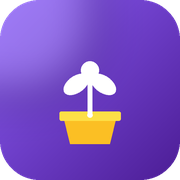
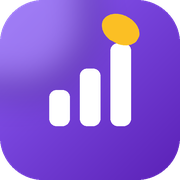
Add files via upload

diff --git a/index.html b/index.html
@@ -134,8 +134,11 @@
     transition:background-color .3s ease, border-color .3s ease;
   }
   .user-pill .dot{ width:26px; height:26px; border-radius:50%; background:linear-gradient(135deg,var(--primary),var(--gold)); display:flex; align-items:center; justify-content:center; font-size:12px; font-weight:700; color:#fff; }
-  .signout{ background:none; border:none; color:var(--text-muted); font-size:12.5px; }
-  .signout:hover{ color:var(--red); }
+  .foot-signout{
+    margin-top:12px; background:none; border:1px solid var(--card-border); color:var(--text-muted);
+    padding:8px 20px; border-radius:999px; font-size:12.5px; font-weight:600; transition:border-color .15s, color .15s;
+  }
+  .foot-signout:hover{ border-color:var(--red); color:var(--red); }
 
   .icon-btn{
     width:36px; height:36px; border-radius:50%; border:1px solid var(--card-border); background:var(--card);
@@ -358,9 +361,13 @@
   <header class="topbar">
     <div class="brand">
       <img src="logo-192.png" alt="Sprout" class="mark-img">
-      <div class="brand-text">Sprout<small>Personal Growth Tracker</small></div>
+      <div class="brand-text">Sprout</div>
     </div>
     <div class="topbar-right">
+      <div class="user-pill">
+        <span class="dot" id="userInitial">?</span>
+        <span id="userEmail">—</span>
+      </div>
       <div class="settings-wrap">
         <button class="icon-btn" id="settingsBtn" title="Appearance">⚙️</button>
         <div class="settings-panel hidden" id="settingsPanel">
@@ -371,11 +378,6 @@
           </div>
         </div>
       </div>
-      <div class="user-pill">
-        <span class="dot" id="userInitial">?</span>
-        <span id="userEmail">—</span>
-      </div>
-      <button class="signout" id="signOutBtn">Sign out</button>
     </div>
   </header>
 
@@ -525,7 +527,10 @@
     </div>
   </section>
 
-  <footer class="foot">Sprout · your personal growth tracker</footer>
+  <footer class="foot">
+    <div>Sprout · your personal growth tracker</div>
+    <button class="foot-signout" id="signOutBtn">Sign out</button>
+  </footer>
 </div>
 
 <!-- Goal modal -->